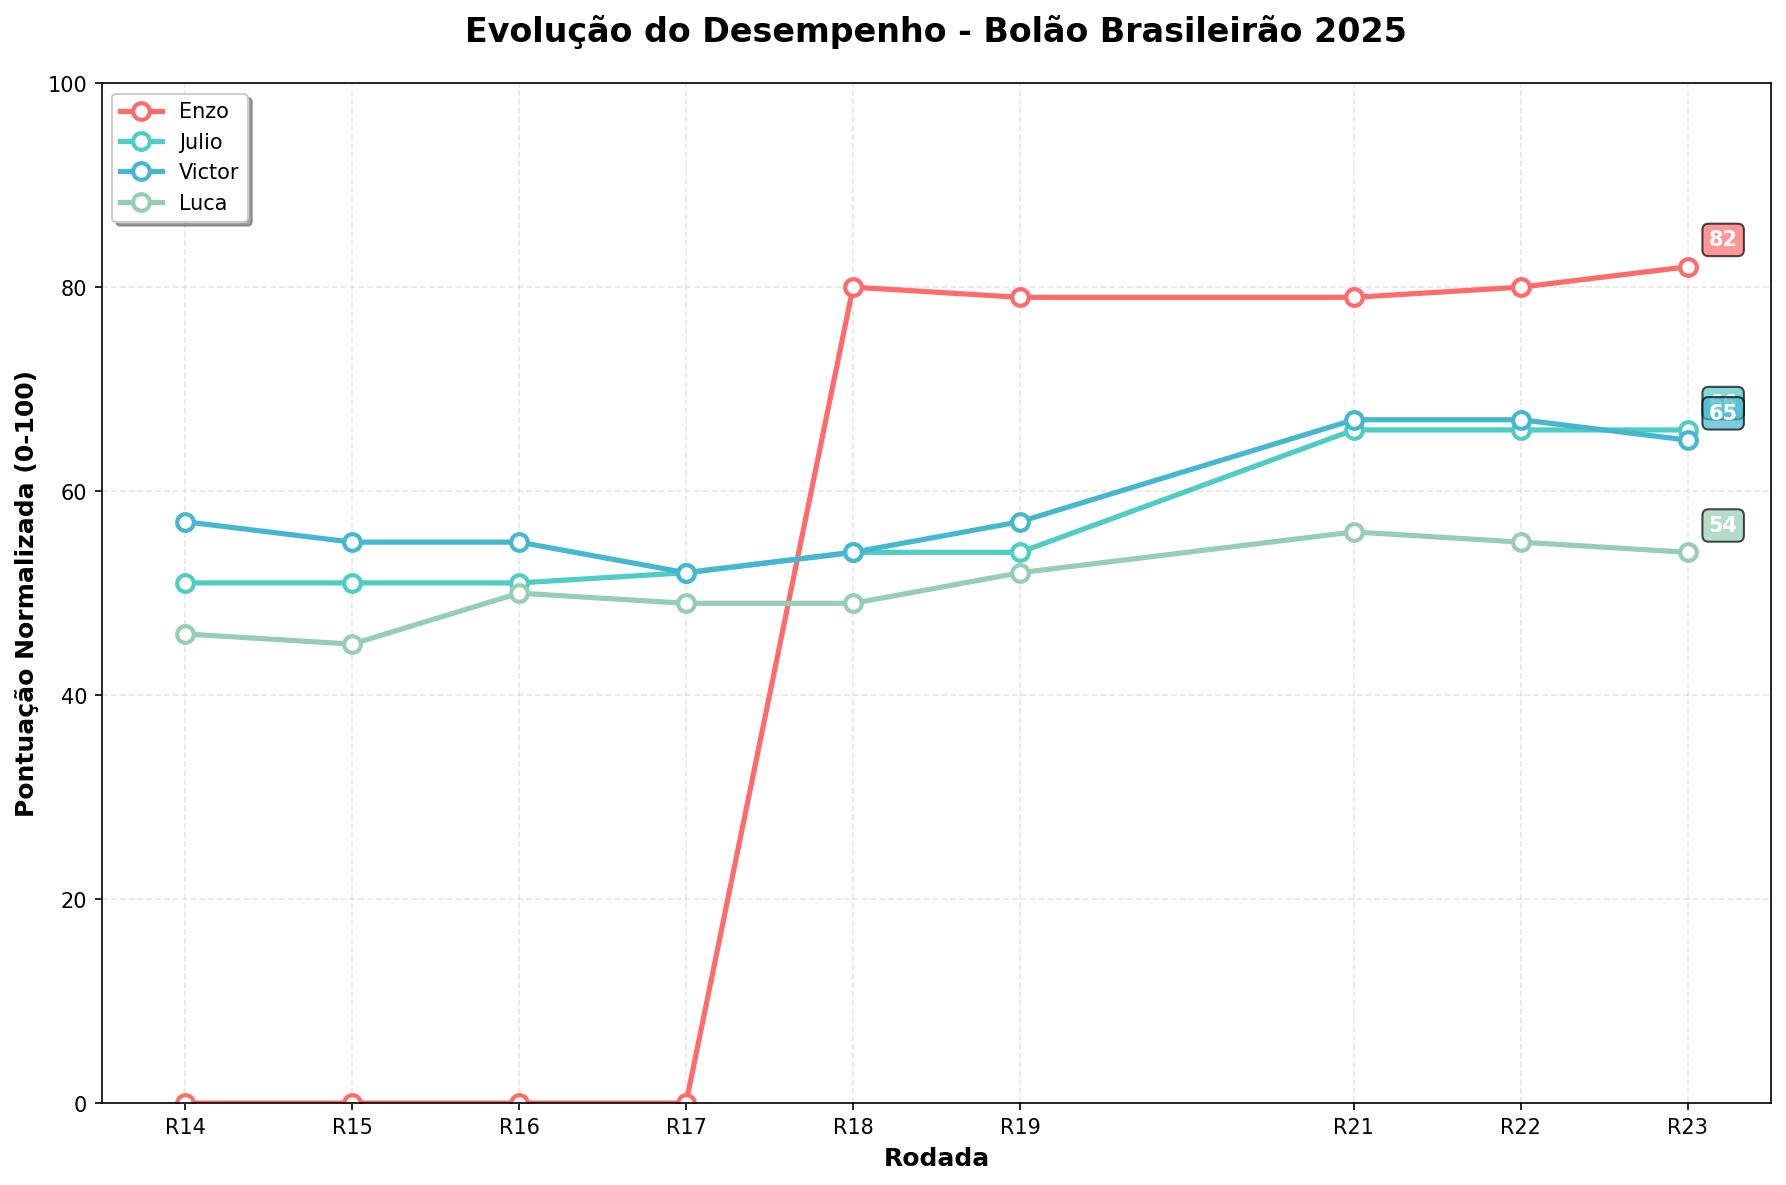
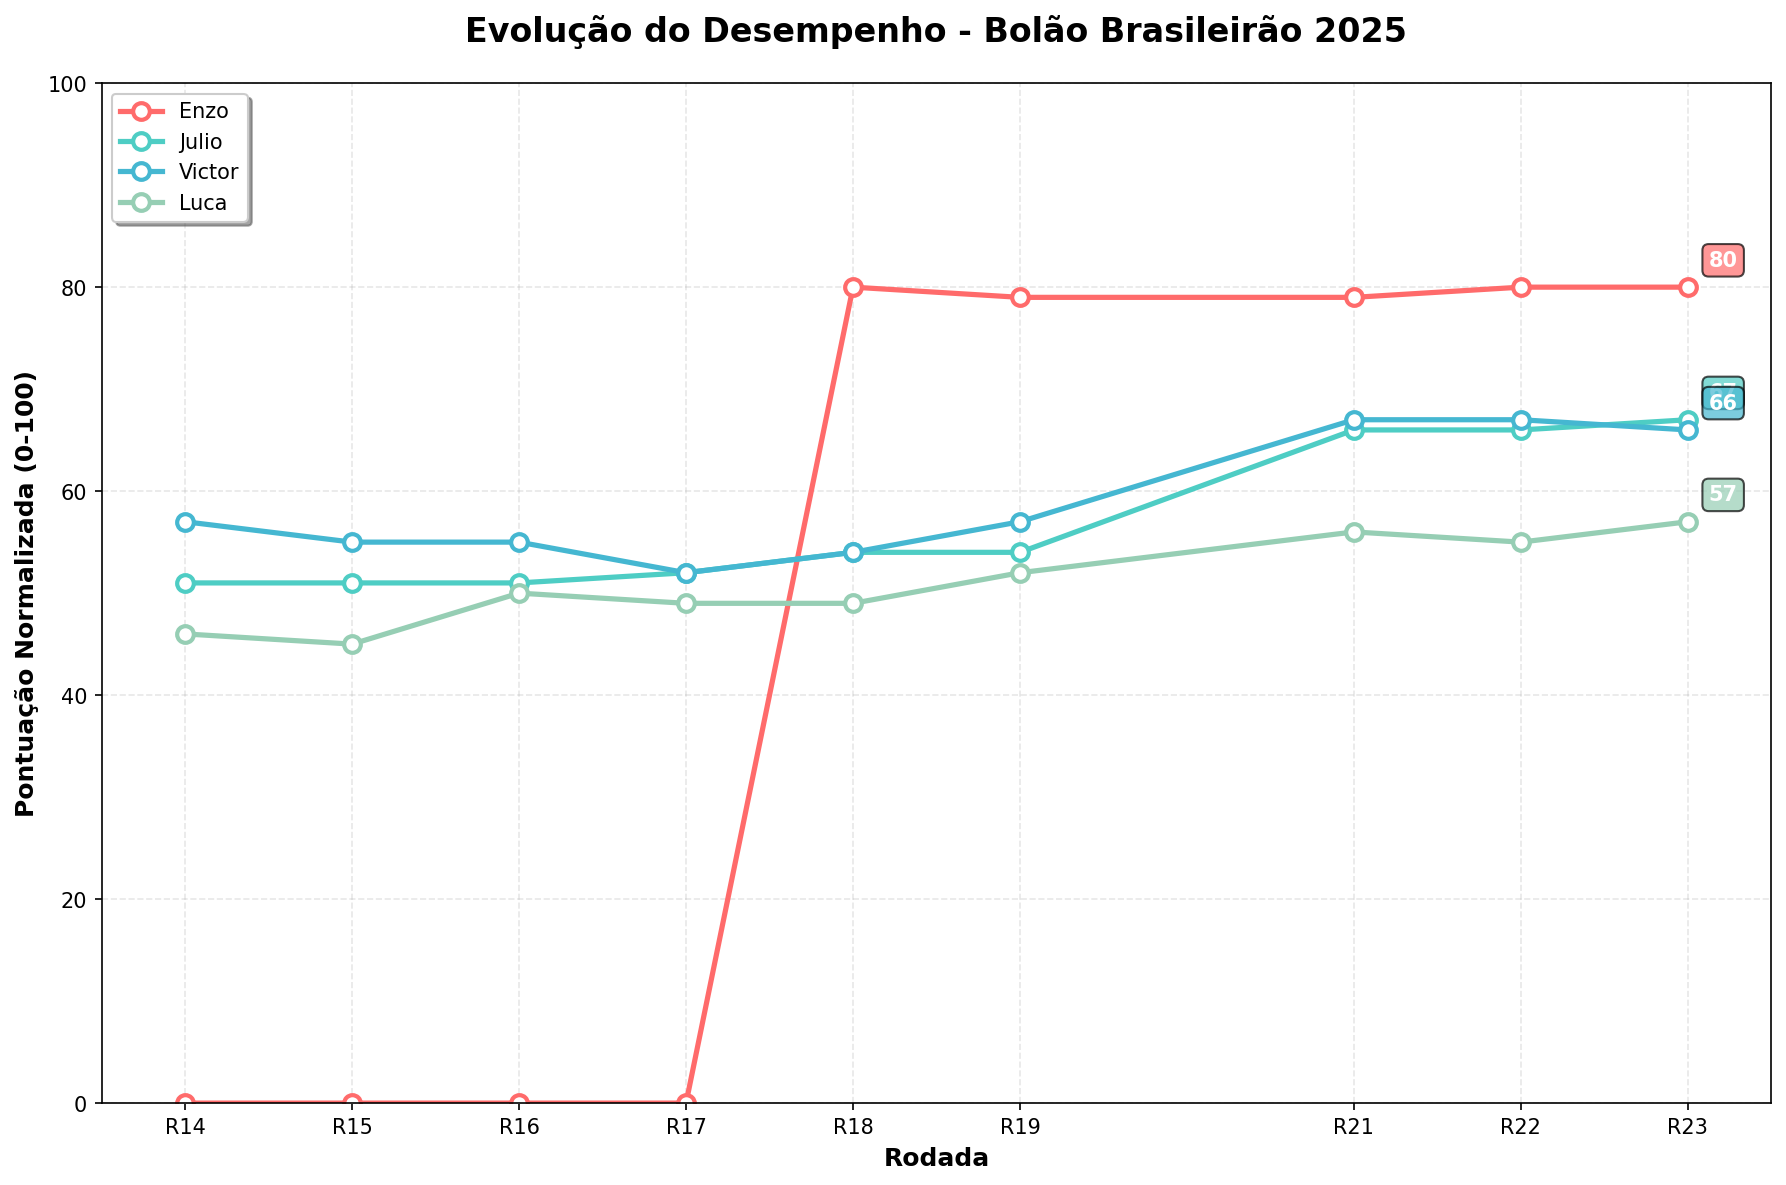
Atualizacao automatica - 14/09/2025 13:44:06,59

Changed region(s): [[0.8623, 0.4059, 0.9854, 0.4684], [0.8623, 0.3122, 0.9854, 0.3747], [0.8623, 0.1873, 0.9854, 0.2498]]

diff --git a/README.md b/README.md
@@ -2,22 +2,22 @@
 
 ## 🏆 Resultados Atuais
 
-**Última Atualização:** 2025-09-13 19:09:42
+**Última Atualização:** 2025-09-14 13:44:06
 
 | Time | Real | Enzo | Julio | Victor | Luca |
 |------|------|------|------|------|------|
 | Flamengo | 1 | 2°(19p) | 1°(20p) | 2°(19p) | 1°(20p) |
-| Cruzeiro | 2 | 1°(19p) | 5°(17p) | 14°(8p) | 11°(11p) |
-| Palmeiras | 3 | 3°(20p) | 4°(19p) | 5°(18p) | 2°(19p) |
+| Palmeiras | 2 | 3°(19p) | 4°(18p) | 5°(17p) | 2°(20p) |
+| Cruzeiro | 3 | 1°(18p) | 5°(18p) | 14°(9p) | 11°(12p) |
 | Mirassol | 4 | 4°(20p) | 18°(6p) | 8°(16p) | 12°(12p) |
 | Bahia | 5 | 8°(17p) | 6°(19p) | 4°(19p) | 7°(18p) |
 | Botafogo | 6 | 7°(19p) | 7°(19p) | 3°(17p) | 5°(19p) |
 | São Paulo | 7 | 14°(13p) | 8°(19p) | 9°(18p) | 9°(18p) |
 | Red Bull Bragantino | 8 | 6°(18p) | 16°(12p) | 17°(11p) | 15°(13p) |
-| Fluminense | 9 | 9°(20p) | 10°(19p) | 6°(17p) | 13°(16p) |
-| Internacional | 10 | 5°(15p) | 2°(12p) | 1°(11p) | 3°(13p) |
-| Ceará | 11 | 13°(18p) | 11°(20p) | 13°(18p) | 18°(13p) |
-| Corinthians | 12 | 11°(19p) | 3°(11p) | 7°(15p) | 6°(14p) |
+| Corinthians | 9 | 11°(18p) | 3°(14p) | 7°(18p) | 6°(17p) |
+| Fluminense | 10 | 9°(19p) | 10°(20p) | 6°(16p) | 13°(17p) |
+| Internacional | 11 | 5°(14p) | 2°(11p) | 1°(10p) | 3°(12p) |
+| Ceará | 12 | 13°(19p) | 11°(19p) | 13°(19p) | 18°(14p) |
 | Grêmio | 13 | 10°(17p) | 15°(18p) | 11°(18p) | 14°(19p) |
 | Atlético-MG | 14 | 12°(18p) | 9°(15p) | 10°(16p) | 8°(14p) |
 | Vasco da Gama | 15 | 16°(19p) | 14°(19p) | 16°(19p) | 17°(18p) |
@@ -26,14 +26,14 @@
 | Juventude | 18 | 18°(20p) | 12°(14p) | 15°(17p) | 19°(19p) |
 | Fortaleza | 19 | 15°(16p) | 17°(18p) | 20°(19p) | 10°(11p) |
 | Sport | 20 | 20°(20p) | 20°(20p) | 19°(19p) | 16°(16p) |
-| **TOTAL** | | **364** | **332** | **330** | **308** |
+| **TOTAL** | | **360** | **334** | **332** | **314** |
 
 ### 🏅 Classificação Final (pontuação normalizada 0-100)
 
-🥇 **Enzo**: 82 pontos
-🥈 **Julio**: 66 pontos
-🥉 **Victor**: 65 pontos
-4. **Luca**: 54 pontos
+🥇 **Enzo**: 80 pontos
+🥈 **Julio**: 67 pontos
+🥉 **Victor**: 66 pontos
+4. **Luca**: 57 pontos
 
 ### 📈 Histórico de Desempenho
 
@@ -49,13 +49,13 @@
 | R19 | 79 | 54 | 57 | 52 |
 | R21 | 79 | 66 | 67 | 56 |
 | R22 | 80 | 66 | 67 | 55 |
-| R23 | 82 | 66 | 65 | 54 |
+| R23 | 80 | 67 | 66 | 57 |
 
 **Tendência (últimas 2 medições):**
-- **Enzo**: 📈 +2
-- **Julio**: ➡ =0
-- **Victor**: 📉 -2
-- **Luca**: 📉 -1
+- **Enzo**: ➡ =0
+- **Julio**: 📈 +1
+- **Victor**: 📉 -1
+- **Luca**: 📈 +2
 
 ## 📖 Sobre o Projeto
 
